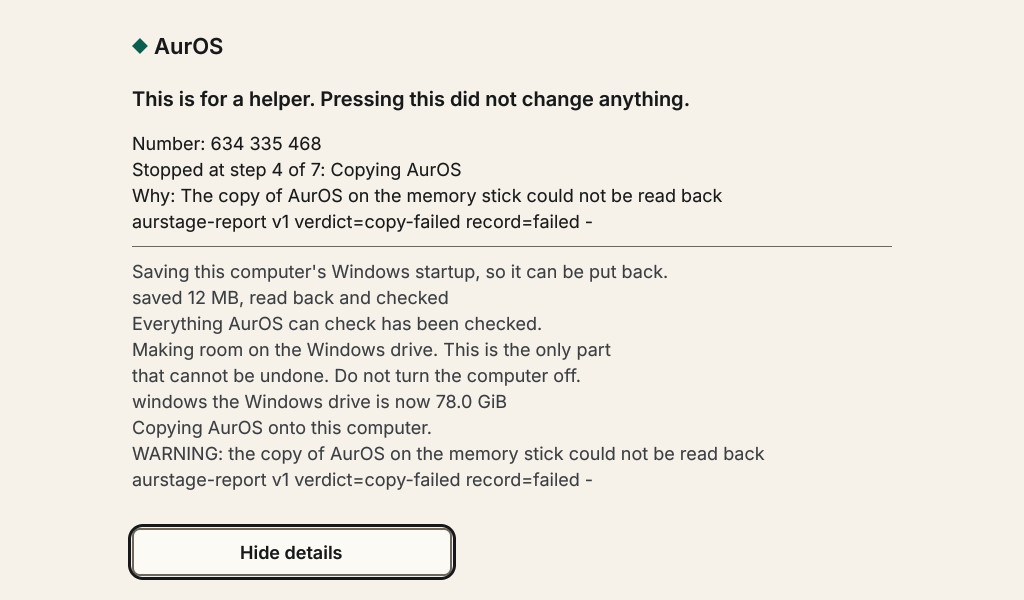
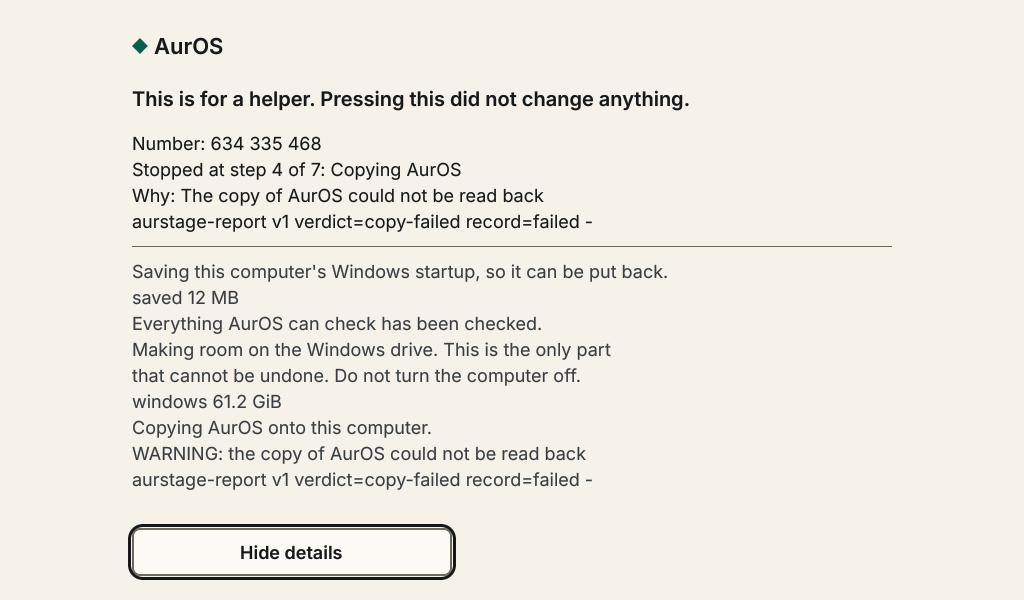
staging screen: never promise a restart the restore does not do; old names never reach her
restore_run ends with reboot(RB_POWER_OFF), so "The screen goes black, then Windows
starts. About 2 minutes." would leave her waiting at a dark screen. The sentence is
in (RESTORE_RESTARTS=1) and tested, off until aurstage restarts instead; today the
box says the computer switches itself off. aurstage still says AurBridge and Start
installing (install.c:82-83): the screen words them AurOS Setup / Install AurOS
whatever feeds it. --said lists every string a picture draws, so screentest now
checks the words she reads (no size, path, log word; the helper number only after a
failure and one per verdict; Step N of M; About N minutes left). SHOTS=dir leaves
a picture of every state at 1366x768 and 1024x600; docs/shots/staging replaces the
four dark staging-*.png. screentest 68/68; 24 mutations of screen.c all turn it red.

diff --git a/src/aurscreen/screen.c b/src/aurscreen/screen.c
@@ -49,6 +49,8 @@
  *   aurscreen --mode install|restore|dry   instead of /proc/cmdline
  *   aurscreen --fonts DIR            where ui.ttf / ui-bold.ttf are
  *   aurscreen --code VERDICT         print the helper code of a verdict
+ *   aurscreen --said                 with --png/--state: also print every
+ *                                    string the picture draws, "said=..."
  *
  * Off-screen only (--png, --state), stdin may also carry, for tests:
  *   aurscreen-at SECONDS     the clock, for "About N minutes left"
@@ -182,6 +184,26 @@ static int has_size(const char *t)
     return 0;
 }
 
+/* aurstage's own words are being reworded (install.c's last two lines
+ * of "what next" still say AurBridge and Start installing, and that is
+ * stream A2's file). Her screen never says the old names, whatever
+ * build of aurstage is feeding it.
+ * ponytail: delete when install.c says AurOS Setup / Install AurOS. */
+static void plain(char *dst, size_t n, const char *src)
+{
+    static const char *const W[][2] = { { "AurBridge", "AurOS Setup" },
+                                        { "Start installing", "Install AurOS" } };
+    snprintf(dst, n, "%s", src);
+    for (size_t i = 0; i < sizeof W / sizeof W[0]; i++) {
+        char *p;
+        while ((p = strstr(dst, W[i][0]))) {
+            char rest[512];
+            snprintf(rest, sizeof rest, "%s", p + strlen(W[i][0]));
+            snprintf(p, n - (size_t)(p - dst), "%s%s", W[i][1], rest);
+        }
+    }
+}
+
 static void set_step(state *s, int i)
 {
     s->step = i; s->pct = -1; s->p_t0 = -1;
@@ -261,6 +283,9 @@ static void feed(state *s, char *line, double now)
         return;
     }
     if (is_detail(t)) return;
+    char fixed[480];
+    plain(fixed, sizeof fixed, t);
+    t = fixed;
     int cap = t[0] >= 'A' && t[0] <= 'Z';
     /* A new sentence on a new line starts a new paragraph even without
      * a blank line before it: what she reads is the latest sentence. */
@@ -334,6 +359,15 @@ static int minutes_left(const state *s)
     return m < 1 ? 1 : m;
 }
 
+/* "Step N of M" and, once it can be measured, "About N minutes left". */
+static void steps_said(const state *st, char a[32], char m[48])
+{
+    int n = st->mode == M_RESTORE ? NRSTEP : NSTEP, left = minutes_left(st);
+    snprintf(a, 32, "Step %d of %d", st->step + 1, n);
+    m[0] = 0;
+    if (left > 0) snprintf(m, 48, "About %d minute%s left", left, left == 1 ? "" : "s");
+}
+
 /* ── painting ───────────────────────────────────────────────────── */
 
 static const char *fontdir = "/usr/share/auros/fonts";
@@ -388,13 +422,23 @@ static faces *faces_for(int h)
     return &F;
 }
 
+/* tools/screentest.sh asks (--said) what a picture says: every string
+ * drawn, once, whole. The pixels cannot be searched for words. */
+static FILE *said;
+
 /* One line of text in a box `lh` tall whose top is y. */
-static void text(surface *s, face fc, int x, int y, const char *t, uint32_t c)
+static void text_line(surface *s, face fc, int x, int y, const char *t, uint32_t c)
 {
     if (!fc.f || !t || !*t) return;
     float asc = font_ascent(fc.f), desc = font_descent(fc.f);
     font_draw(fc.f, s->px, s->w, s->h, s->stride, (float)x,
               (float)y + ((float)fc.lh + asc - desc) / 2.f, t, c, 1.f);
+}
+
+static void text(surface *s, face fc, int x, int y, const char *t, uint32_t c)
+{
+    if (said && t && *t) fprintf(said, "said=%s\n", t);
+    text_line(s, fc, x, y, t, c);
 }
 
 static int text_w(face fc, const char *t) { return fc.f ? (int)ceilf(font_text_width(fc.f, t)) : 0; }
@@ -403,6 +447,7 @@ static int text_w(face fc, const char *t) { return fc.f ? (int)ceilf(font_text_w
  * height used. Nothing she reads is cut off with "...". */
 static int wrap(surface *s, face fc, int x, int y, int w, const char *t, uint32_t c)
 {
+    if (said && s && t && *t) fprintf(said, "said=%s\n", t);
     if (!fc.f || !t) return 0;
     char line[512] = "", next[512];
     int used = 0;
@@ -413,14 +458,14 @@ static int wrap(surface *s, face fc, int x, int y, int w, const char *t, uint32_
         int wl = (int)strcspn(p, " ");
         snprintf(next, sizeof next, "%s%s%.*s", line, line[0] ? " " : "", wl, p);
         if (line[0] && text_w(fc, next) > w) {
-            if (s) text(s, fc, x, y + used, line, c);
+            if (s) text_line(s, fc, x, y + used, line, c);
             used += fc.lh; line[0] = 0;
             continue;
         }
         snprintf(line, sizeof line, "%s", next);
         p += wl;
     }
-    if (line[0]) { if (s) text(s, fc, x, y + used, line, c); used += fc.lh; }
+    if (line[0]) { if (s) text_line(s, fc, x, y + used, line, c); used += fc.lh; }
     return used;
 }
 
@@ -573,6 +618,45 @@ static void paint_pointer(surface *s, int x, int y, float k)
 
 typedef struct { int x, y, seen, hover, keyed; } pointer;
 
+/* THE RESTORE'S LAST ACT. restore_run (aurstage/install.c) ends with
+ * reboot(RB_POWER_OFF): the computer switches itself off and she turns
+ * it on again, which aurstage's own closing sentence says. The design
+ * wants "The screen goes black, then Windows starts. About 2 minutes."
+ * before a restart. Saying it while the machine powers off would leave
+ * her waiting at a dark screen, so it is built in only once the restore
+ * restarts instead: compile with -DRESTORE_RESTARTS=1 then. */
+#ifndef RESTORE_RESTARTS
+#define RESTORE_RESTARTS 0
+#endif
+#define RESTART_SAYS "The screen goes black, then Windows starts. About 2 minutes."
+
+/* A code on a screen where nothing went wrong looks like an error. */
+static int shows_code(const state *st) { return st->stopped; }
+
+/* The box at the foot: what she must not do, then what she will see.
+ * From the first irreversible write to the end. Returns its lines;
+ * l[0] is the one in bold. */
+static int band(const state *st, const char *l[2])
+{
+    l[0] = l[1] = NULL;
+    if (st->stopped) return 0;
+    if (st->mode == M_RESTORE) {
+        if (st->finished) { l[0] = RESTORE_RESTARTS ? RESTART_SAYS : NULL; return l[0] != NULL; }
+        if (!RESTORE_RESTARTS) {
+            l[0] = "Do not turn the computer off. It switches itself off when it is done.";
+            return 1;
+        }
+        l[0] = "Do not turn the computer off. It restarts by itself when it is done.";
+        l[1] = RESTART_SAYS;
+        return 2;
+    }
+    if (st->mode == M_INSTALL && st->step >= RISKY_FROM && !st->handover) {
+        l[0] = "Do not turn the computer off. AurOS starts by itself when it is done.";
+        return 1;
+    }
+    return 0;
+}
+
 static void paint(surface *s, const state *st, const pointer *pt)
 {
     faces *F = faces_for(s->h);
@@ -598,7 +682,7 @@ static void paint(surface *s, const state *st, const pointer *pt)
             y += wrap(s, F->body, f.L, y, f.W, st->para[i], INK) + (int)(8 * f.k);
         y += (int)(16 * f.k);
 
-        if (st->stopped) {
+        if (shows_code(st)) {
             /* The number, and why it is there: a group of its own. */
             y += (int)(8 * f.k);
             char code[12];
@@ -611,32 +695,20 @@ static void paint(surface *s, const state *st, const pointer *pt)
                 paint_steps(s, st, F, f, &y);
                 if (!st->handover && !st->finished) {
                     char a[32], m[48];
-                    int n = st->mode == M_RESTORE ? NRSTEP : NSTEP, left = minutes_left(st);
-                    snprintf(a, sizeof a, "Step %d of %d", st->step + 1, n);
+                    steps_said(st, a, m);
                     y += (int)(4 * f.k);
                     text(s, F->small, f.L, y, a, INK2);
-                    if (left > 0) {
-                        snprintf(m, sizeof m, "About %d minute%s left", left, left == 1 ? "" : "s");
-                        text(s, F->small, f.L + text_w(F->small, a) + (int)(32 * f.k), y, m, INK2);
-                    }
+                    if (m[0]) text(s, F->small, f.L + text_w(F->small, a) + (int)(32 * f.k), y, m, INK2);
                 }
             }
-            /* Do not turn it off: from the first irreversible write to
-             * the end. A box she cannot press, so no border: a tint and
-             * a bar, the text in ink. */
-            int risky = st->mode == M_RESTORE ? st->verdict[0] == 0
-                      : st->mode == M_INSTALL && st->step >= RISKY_FROM && !st->handover;
-            const char *say = st->mode == M_RESTORE
-                ? "Do not turn the computer off. It restarts by itself when it is done."
-                : "Do not turn the computer off. AurOS starts by itself when it is done.";
-            /* What she will see, said before she sees it (§3 Motion). */
-            const char *then = st->mode == M_RESTORE
-                ? "The screen goes black, then Windows starts. About 2 minutes." : NULL;
-            if (st->mode == M_RESTORE && st->finished) { say = then; then = NULL; }
-            if (risky || (st->mode == M_RESTORE && st->finished)) {
+            /* A box she cannot press, so no border: a tint and a bar,
+             * the text in ink. */
+            const char *bl[2];
+            int nb = band(st, bl);
+            if (nb) {
                 int pad = (int)(14 * f.k), ic = (int)(24 * f.k), tw = f.W - 2 * pad - ic - pad;
-                int th = wrap(NULL, F->bodyb, 0, 0, tw, say, INK);
-                int bh = th + (then ? wrap(NULL, F->body, 0, 0, tw, then, INK) : 0) + 2 * pad;
+                int th = wrap(NULL, F->bodyb, 0, 0, tw, bl[0], INK);
+                int bh = th + (nb > 1 ? wrap(NULL, F->body, 0, 0, tw, bl[1], INK) : 0) + 2 * pad;
                 int by = s->h - f.in - bh;
                 draw_round_rect(s, (rect){ f.L, by, f.W, bh }, corners_all(8.f * f.k), WARNT, 1.f);
                 draw_rect(s, (rect){ f.L, by, (int)(4 * f.k), bh }, WARN, 1.f);
@@ -644,8 +716,8 @@ static void paint(surface *s, const state *st, const pointer *pt)
                 draw_circle(s, cx, cy, (float)ic / 2.f, WARN, 1.f);
                 draw_rect(s, (rect){ (int)cx - (int)(1.5f * f.k), (int)(cy - 7 * f.k), (int)(3 * f.k), (int)(8 * f.k) }, WARNT, 1.f);
                 draw_rect(s, (rect){ (int)cx - (int)(1.5f * f.k), (int)(cy + 3 * f.k), (int)(3 * f.k), (int)(3 * f.k) }, WARNT, 1.f);
-                if (then) wrap(s, F->body, f.L + pad + ic + pad, by + pad + th, tw, then, INK);
-                wrap(s, F->bodyb, f.L + pad + ic + pad, by + pad, tw, say, INK);
+                wrap(s, F->bodyb, f.L + pad + ic + pad, by + pad, tw, bl[0], INK);
+                if (nb > 1) wrap(s, F->body, f.L + pad + ic + pad, by + pad + th, tw, bl[1], INK);
             }
         }
     }
@@ -797,6 +869,7 @@ int main(int argc, char **argv)
         if (!strcmp(argv[i], "--png") && i + 1 < argc) png = argv[++i];
         else if (!strcmp(argv[i], "--size") && i + 2 < argc) { pw = atoi(argv[++i]); ph = atoi(argv[++i]); }
         else if (!strcmp(argv[i], "--state")) dump = 1;
+        else if (!strcmp(argv[i], "--said")) said = stdout;
         else if (!strcmp(argv[i], "--fonts") && i + 1 < argc) fontdir = argv[++i];
         else if (!strcmp(argv[i], "--code") && i + 1 < argc) {
             char c[12]; helper_code(argv[++i], c); printf("%s\n", c); return 0;
@@ -813,7 +886,7 @@ int main(int argc, char **argv)
     pointer pt = { 0, 0, 0, 0, 0 };
 
     /* Off-screen: everything on stdin, then one picture or one report. */
-    if (png || dump) {
+    if (png || dump || said) {
         if (pw < 16 || ph < 16 || pw > 8192 || ph > 8192) return 1;
         char line[1024];
         double now = 0;
@@ -830,7 +903,7 @@ int main(int argc, char **argv)
         pt.hover = pt.seen && has_button(&st) && inside(button_rect(pw, ph, faces_for(ph)), pt.x, pt.y);
         if (dump) {
             char code[12] = "-";
-            if (st.stopped) helper_code(st.verdict, code);
+            if (shows_code(&st)) helper_code(st.verdict, code);
             printf("mode=%d step=%d label=%s pct=%d stopped=%d handover=%d finished=%d verdict=%s "
                    "left=%d details=%d code=%s\n",
                    st.mode, st.step, st.mode == M_RESTORE ? RSTEP[st.step].label : STEP[st.step].label,
@@ -838,12 +911,15 @@ int main(int argc, char **argv)
                    minutes_left(&st), st.details, code);
             for (int i = 0; i < st.npara; i++) printf("para=%s\n", st.para[i]);
             if (st.warn[0]) printf("why=%s\n", st.warn);
+            const char *bl[2];
+            int nb = band(&st, bl);
+            for (int i = 0; i < nb; i++) printf("band=%s\n", bl[i]);
         }
-        if (png) {
+        if (png || said) {
             surface *o = surface_new(pw, ph);
             if (!o) return 1;
             paint(o, &st, &pt);
-            int rc = png_write_rgb(png, o->px, o->w, o->h);
+            int rc = png ? png_write_rgb(png, o->px, o->w, o->h) : 0;
             surface_free(o);
             if (rc < 0) { fprintf(stderr, "aurscreen: cannot write %s\n", png); return 1; }
         }

diff --git a/tools/README.md b/tools/README.md
@@ -31,7 +31,7 @@ exit non-zero when they fail.
 | `nvramtest.sh` · `aurfirsttest.sh` | The two programs that write EFI variables, and the rule that separates them. `nvramtest` decodes the installer's boot entry with a **second implementation in another language** — two implementations of one wire format is the pair that drifts, and the symptom of drift is a computer that starts nothing — and makes each of the four NVRAM gate checks fire, because a gate that has never fired is a gate nobody should trust. `aurfirsttest` proves the sentence the whole design rests on: until somebody says AurOS works, `BootOrder` is not touched by anything; confirming **promotes** AurOS without removing anybody else, and on firmware that ships with no `BootOrder` builds one that still contains every entry. It also throws `reboot`, `CONFIRM`, `confirm; rm -rf`, `../../bin/sh` and an empty file at the one privilege boundary in the desktop. |
 | `bootchaintest.sh` | **Can an update leave a PC that starts nothing?** `rootfs/usr/lib/auros/bootchain` is what an installed AurOS runs as `update-grub` and `grub-install`, and the reason the kernel, grub and shim may now take security updates by themselves. With the real signed shim and grub out of a forged rootfs and OVMF's real Microsoft db, every refusal is made to fire with the EFI partition hashed before and after: firmware without the 2011 key (the 2023 change), the 2011 CA in dbx, the shim's own hash in dbx, an NVRAM SBAT level above the grub's generation, and a stop between grub and shim (grub went first, so the old shim still starts). Then each gate is **switched off** and its bad case must get through, or the test is not testing it. The menu half: newest complete kernel first, the previous one as grub's fallback, a half-installed kernel left out, Put Windows back kept, and a template that lost it refused. The Authenticode hash is checked against osslsigncode's. |
 | `bootupdatetest.sh` | **The update path, booted.** The real image under OVMF with Microsoft's keys and Secure Boot enforcing, one shim behind. Inside AurOS, `dpkg -i` of the real shim-signed and grub-efi-amd64-signed packages (their own maintainer scripts must install the new shim), then the same with their trigger file moved away through `apt-get` (now only the apt hook can), then a new kernel through the kernel package's own `zz-update-grub` hook. Outside: the EFI partition holds the new shim, nothing went to `\EFI\ubuntu`, no "ubuntu" firmware entry, BootOrder still starts AurOS then Windows. Then it starts through the new shim into the new kernel, and with that kernel damaged, grub falls back to the previous one by itself. |
-| `screentest.sh` | **The staging screen.** `src/aurscreen` finds the seven install steps by the sentence aurstage says at the start of each, so first: every one of those sentences is still in `install.c` word for word (reword one there and the screen would sit on the step before it for the rest of the install). Then off-screen states on transcripts (part way, finished, failed, refused, a restore, garbage on the pipe) and pictures at four panel sizes; given a real install's serial log, it must follow it to the handover. |
+| `screentest.sh` | **The staging screen.** `src/aurscreen` finds the seven install steps by the sentence aurstage says at the start of each, so first: every one of those sentences is still in `install.c` word for word (reword one there and the screen would sit on the step before it for the rest of the install). Then off-screen states on transcripts (part way, finished, failed, refused, a restore, garbage on the pipe) and pictures at five panel sizes; given a real install's serial log, it must follow it to the handover. Also what she reads (`--said` lists every string a picture draws): no size, path, log word, AurBridge or `--`; a helper number only after a failure and different for every verdict aurstage can say; "Step N of M" and "About N minutes left"; one press is one press; Light paper; nothing below 18 px. `SHOTS=docs/shots/staging sh tools/screentest.sh` leaves a picture of every state at 1366x768 and 1024x600. |
 | `matrixtest.sh` | **The hardware we cannot buy.** Ten machines synthesised in QEMU and put through the dry run, which writes nothing: 4Kn (built through a loop device with `--sector-size 4096`, because `sgdisk` on a plain file always writes 512-byte LBAs and a 4Kn machine cannot be made any other way), an OEM gigabyte EFI partition, a first partition at LBA 34 as disks were made before 2010, MBR, BIOS, BitLocker, a hibernated Windows, two Windows volumes with nothing to choose by, and a machine with no room. Each row is a shape of computer somebody actually owns. |
 | `bridgetest.sh` | **Do the two halves agree about the bytes?** AurBridge writes on Windows; the staging environment reads after the restart and refuses the install if it does not recognise what it finds. They are separate programs in separate toolchains and nothing in either build would notice a renamed field. This links the *real* writer (`src/aurbridge/format.c`) and the *real* reader (`src/aurstage/journal.c`) into one program and makes the second read what the first wrote, field by field — then hands the cpio to `cpio`, the gzip to `gzip` and the stick's partition table to `sgdisk`, because the things that read these formats on a user's machine are the kernel and the firmware. The partition-table hash is checked against a third implementation in python that follows the words in `aurstage.h` and shares no code with either side. |
 | `gpttest.sh` · `wrtest.sh` · `committest.sh` | The three files that can destroy a disk, each on its own. `gpttest` checks CRC32 against a published vector and the table against `sgdisk`; `wrtest` injects faults into the write gate and requires every out-of-window write to be a **refusal and not a clamp**; `committest` snapshots the disk after each flush and asks an independent tool what a reader would see at that instant — which is how the commit order was found to be backwards. |
